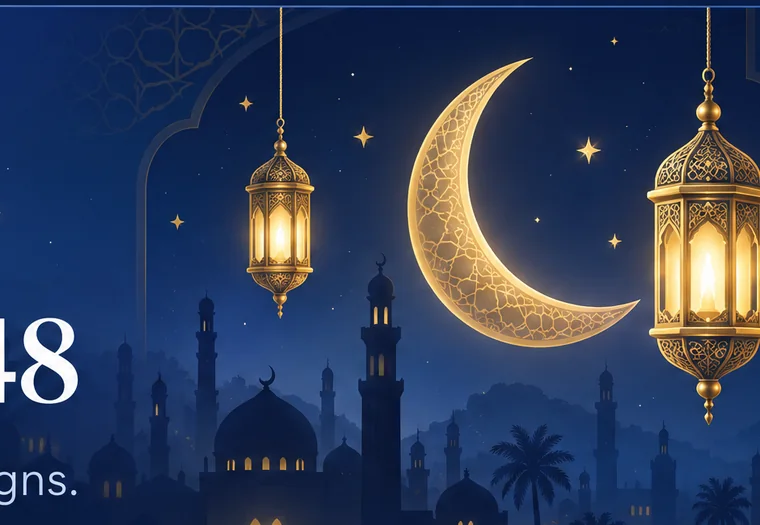
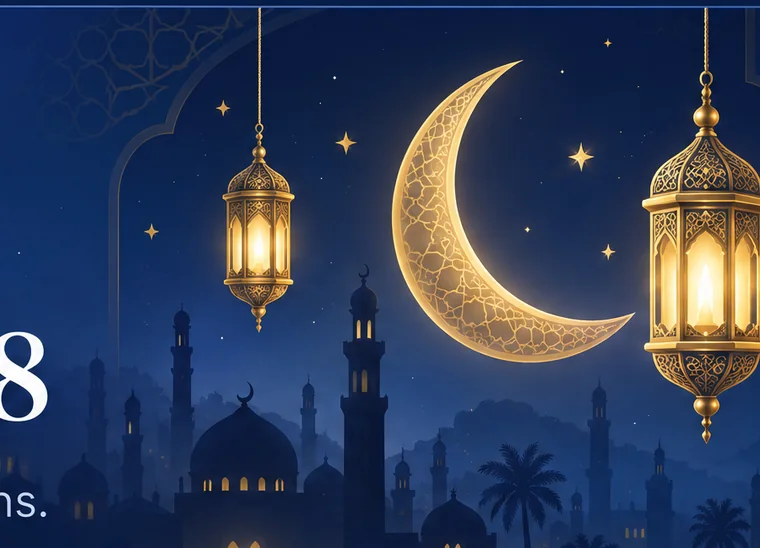
Seasons: Ramadan art without the title edge
Claude-Session: https://claude.ai/code/session_01Fhv3nqVBBPmAG7i6xQGF84

diff --git a/index.html b/index.html
@@ -12592,7 +12592,7 @@ function renderSeasons(){
    const th=ssTheme(big.key);
    const art=SS_ART[big.key];
    const nav=heroList.length>1?`<div class="ss-nav"><button type="button" aria-label="Earlier season" ${SS.hi<=0?'disabled':''} onclick="ssHero(-1)">‹</button><span>${SS.hi+1} / ${heroList.length}</span><button type="button" aria-label="Next season" ${SS.hi>=heroList.length-1?'disabled':''} onclick="ssHero(1)">›</button></div>`:'';
-   hero=art?`<div class="ss-hero ss-art ss-a-${big.key}">${nav}<i class="ss-img" style="background-image:url('icons/seasons/${big.key}.webp?v=2')"></i><span class="ss-wm">HEMERA</span><i class="ss-ln"></i><small>${live?'ON NOW':SS.hi?'COMING UP':'NEXT SEASON'} · ${big.type==='h'?'HIJRI':'US'}</small><b>${esc(big.name)}</b><p class="ss-tag">${esc(art)}</p>
+   hero=art?`<div class="ss-hero ss-art ss-a-${big.key}">${nav}<i class="ss-img" style="background-image:url('icons/seasons/${big.key}.webp?v=3')"></i><span class="ss-wm">HEMERA</span><i class="ss-ln"></i><small>${live?'ON NOW':SS.hi?'COMING UP':'NEXT SEASON'} · ${big.type==='h'?'HIJRI':'US'}</small><b>${esc(big.name)}</b><p class="ss-tag">${esc(art)}</p>
      <div class="ss-cd ss-cd3">${live?`<span><em>${SS_IC.cal}</em><strong>${ssDays(big.from,t)+1}</strong>of ${big.len} days</span><span><em>${SS_IC.flag}</em><strong>${esc(ssD(big.to))}</strong>ends</span>`:`<span><em>${SS_IC.cal}</em><strong>${n}</strong>day${n===1?'':'s'}</span><span><em>${SS_IC.flag}</em><strong>${esc(ssD(big.from))}</strong>starts</span>`}${big.type==='h'?`<span><em>${SS_IC.moon}</em><strong>${big.hy}</strong>Hijri year</span>`:`<span><em>${SS_IC.moon}</em><strong>${big.len}</strong>day${big.len>1?'s':''} long</span>`}</div>
      ${p?`<div class="ss-rd">Team ready · ${pct}% (${p.done} of ${p.n} prep task${p.n>1?'s':''})</div><div class="ss-bar"><i style="width:${pct}%"></i></div>`:''}
      <div class="ss-hd">${ssDetail(big,all)}</div></div>`:`<div class="ss-hero${th?' th-'+th:''}">${th?ssDeco(th):''}<small>${live?'ON NOW':'NEXT BIG SEASON'} · HIJRI</small><b>${esc(big.name)}</b>

diff --git a/source/Index.html b/source/Index.html
@@ -12428,7 +12428,7 @@ function renderSeasons(){
    const th=ssTheme(big.key);
    const art=SS_ART[big.key];
    const nav=heroList.length>1?`<div class="ss-nav"><button type="button" aria-label="Earlier season" ${SS.hi<=0?'disabled':''} onclick="ssHero(-1)">‹</button><span>${SS.hi+1} / ${heroList.length}</span><button type="button" aria-label="Next season" ${SS.hi>=heroList.length-1?'disabled':''} onclick="ssHero(1)">›</button></div>`:'';
-   hero=art?`<div class="ss-hero ss-art ss-a-${big.key}">${nav}<i class="ss-img" style="background-image:url('icons/seasons/${big.key}.webp?v=2')"></i><span class="ss-wm">HEMERA</span><i class="ss-ln"></i><small>${live?'ON NOW':SS.hi?'COMING UP':'NEXT SEASON'} · ${big.type==='h'?'HIJRI':'US'}</small><b>${esc(big.name)}</b><p class="ss-tag">${esc(art)}</p>
+   hero=art?`<div class="ss-hero ss-art ss-a-${big.key}">${nav}<i class="ss-img" style="background-image:url('icons/seasons/${big.key}.webp?v=3')"></i><span class="ss-wm">HEMERA</span><i class="ss-ln"></i><small>${live?'ON NOW':SS.hi?'COMING UP':'NEXT SEASON'} · ${big.type==='h'?'HIJRI':'US'}</small><b>${esc(big.name)}</b><p class="ss-tag">${esc(art)}</p>
      <div class="ss-cd ss-cd3">${live?`<span><em>${SS_IC.cal}</em><strong>${ssDays(big.from,t)+1}</strong>of ${big.len} days</span><span><em>${SS_IC.flag}</em><strong>${esc(ssD(big.to))}</strong>ends</span>`:`<span><em>${SS_IC.cal}</em><strong>${n}</strong>day${n===1?'':'s'}</span><span><em>${SS_IC.flag}</em><strong>${esc(ssD(big.from))}</strong>starts</span>`}${big.type==='h'?`<span><em>${SS_IC.moon}</em><strong>${big.hy}</strong>Hijri year</span>`:`<span><em>${SS_IC.moon}</em><strong>${big.len}</strong>day${big.len>1?'s':''} long</span>`}</div>
      ${p?`<div class="ss-rd">Team ready · ${pct}% (${p.done} of ${p.n} prep task${p.n>1?'s':''})</div><div class="ss-bar"><i style="width:${pct}%"></i></div>`:''}
      <div class="ss-hd">${ssDetail(big,all)}</div></div>`:`<div class="ss-hero${th?' th-'+th:''}">${th?ssDeco(th):''}<small>${live?'ON NOW':'NEXT BIG SEASON'} · HIJRI</small><b>${esc(big.name)}</b>

diff --git a/source/Index.source.html b/source/Index.source.html
@@ -12457,7 +12457,7 @@ function renderSeasons(){
    const th=ssTheme(big.key);
    const art=SS_ART[big.key];
    const nav=heroList.length>1?`<div class="ss-nav"><button type="button" aria-label="Earlier season" ${SS.hi<=0?'disabled':''} onclick="ssHero(-1)">‹</button><span>${SS.hi+1} / ${heroList.length}</span><button type="button" aria-label="Next season" ${SS.hi>=heroList.length-1?'disabled':''} onclick="ssHero(1)">›</button></div>`:'';
-   hero=art?`<div class="ss-hero ss-art ss-a-${big.key}">${nav}<i class="ss-img" style="background-image:url('icons/seasons/${big.key}.webp?v=2')"></i><span class="ss-wm">HEMERA</span><i class="ss-ln"></i><small>${live?'ON NOW':SS.hi?'COMING UP':'NEXT SEASON'} · ${big.type==='h'?'HIJRI':'US'}</small><b>${esc(big.name)}</b><p class="ss-tag">${esc(art)}</p>
+   hero=art?`<div class="ss-hero ss-art ss-a-${big.key}">${nav}<i class="ss-img" style="background-image:url('icons/seasons/${big.key}.webp?v=3')"></i><span class="ss-wm">HEMERA</span><i class="ss-ln"></i><small>${live?'ON NOW':SS.hi?'COMING UP':'NEXT SEASON'} · ${big.type==='h'?'HIJRI':'US'}</small><b>${esc(big.name)}</b><p class="ss-tag">${esc(art)}</p>
      <div class="ss-cd ss-cd3">${live?`<span><em>${SS_IC.cal}</em><strong>${ssDays(big.from,t)+1}</strong>of ${big.len} days</span><span><em>${SS_IC.flag}</em><strong>${esc(ssD(big.to))}</strong>ends</span>`:`<span><em>${SS_IC.cal}</em><strong>${n}</strong>day${n===1?'':'s'}</span><span><em>${SS_IC.flag}</em><strong>${esc(ssD(big.from))}</strong>starts</span>`}${big.type==='h'?`<span><em>${SS_IC.moon}</em><strong>${big.hy}</strong>Hijri year</span>`:`<span><em>${SS_IC.moon}</em><strong>${big.len}</strong>day${big.len>1?'s':''} long</span>`}</div>
      ${p?`<div class="ss-rd">Team ready · ${pct}% (${p.done} of ${p.n} prep task${p.n>1?'s':''})</div><div class="ss-bar"><i style="width:${pct}%"></i></div>`:''}
      <div class="ss-hd">${ssDetail(big,all)}</div></div>`:`<div class="ss-hero${th?' th-'+th:''}">${th?ssDeco(th):''}<small>${live?'ON NOW':'NEXT BIG SEASON'} · HIJRI</small><b>${esc(big.name)}</b>
